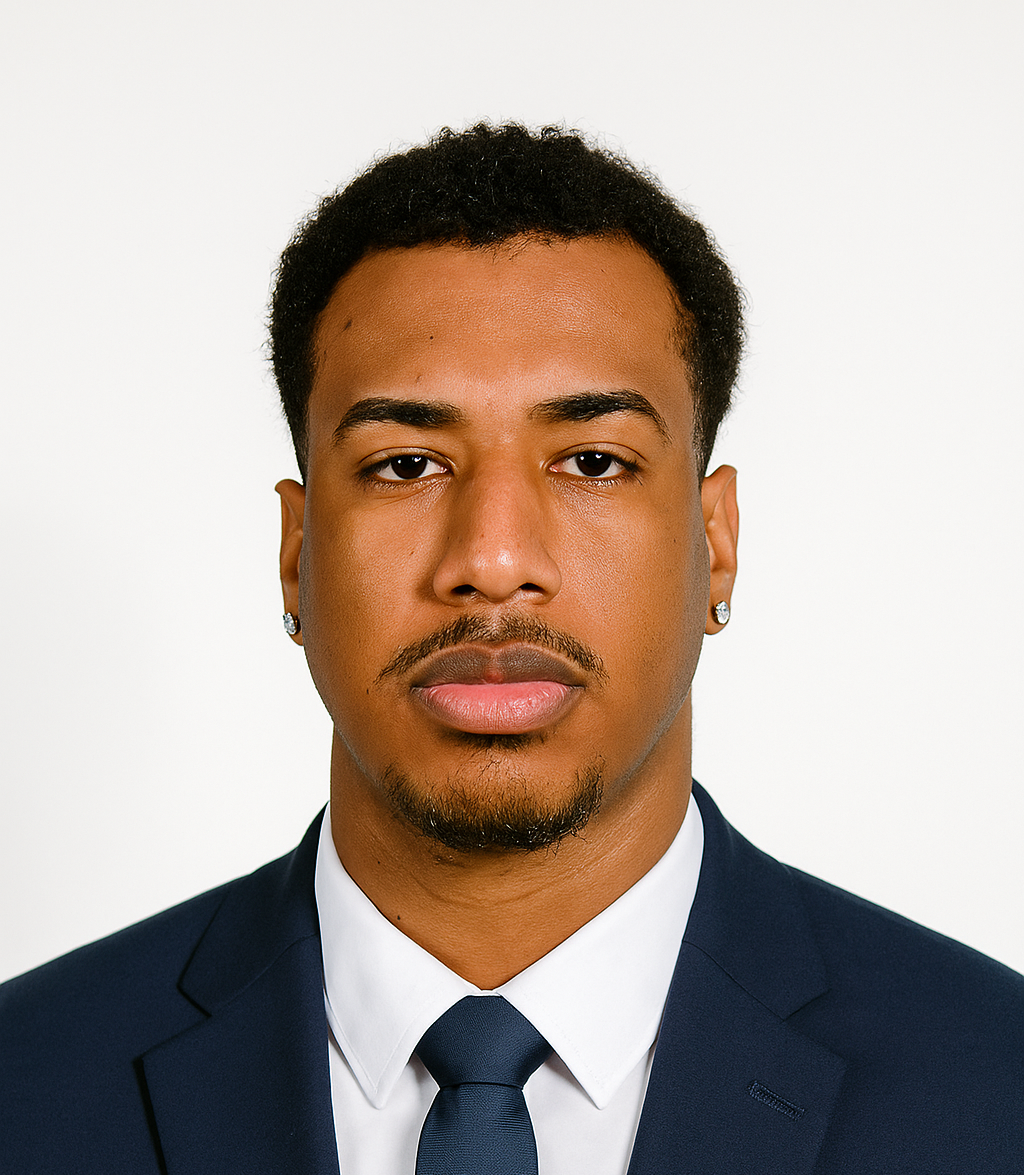
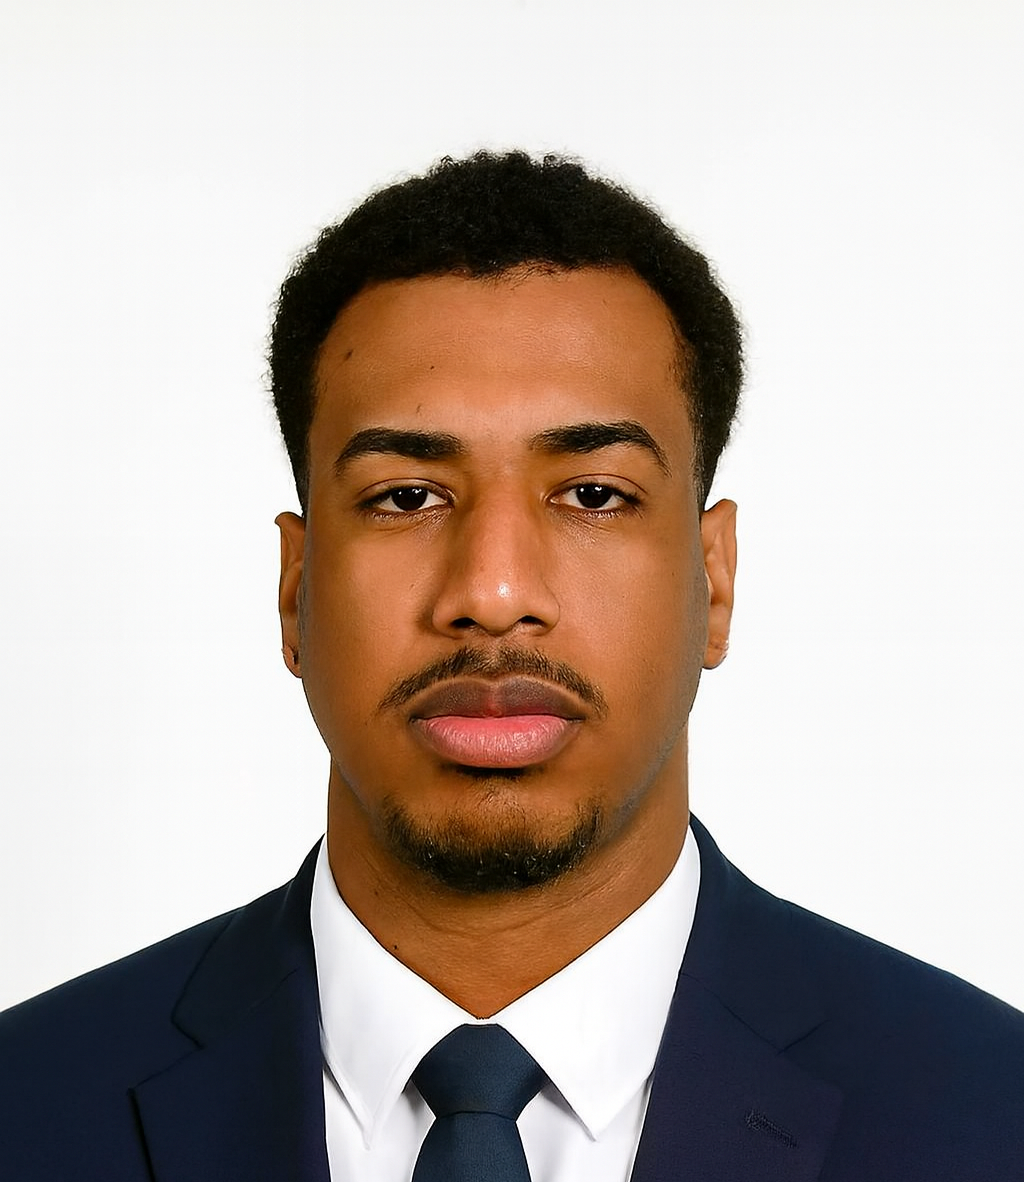
Actualizar proyectos: Pragmatica, CEO, Colaborativos y QA

diff --git a/index.html b/index.html
@@ -216,7 +216,7 @@
                         </div>
                     </div>
                     <div class="about-visual glass">
-                        <img src="img/Fotos/Perfil.PNG" alt="Enghel Mejía Severino"
+                        <img src="img/Fotos/Perfil.png" alt="Enghel Mejía Severino"
                             onerror="this.style.display='none'; this.nextElementSibling.style.display='flex';">
                         <div class="placeholder-img" style="display: none;">Enghel</div>
                     </div>
@@ -255,89 +255,22 @@
                     <!-- Proyecto 2 -->
                     <div class="project-card glass">
                         <div class="project-img" style="background: white;">
-                            <img src="img/Clientes/INTERTEK.png" alt="Logo Intertek"
-                                onerror="this.style.display='none'; this.nextElementSibling.style.display='flex';"
-                                style="width: 100%; height: 100%; object-fit: contain; padding: 20px;">
-                            <div class="placeholder-img" style="display: none; color: #333;">Intertek</div>
-                        </div>
-                        <div class="project-info">
-                            <h3 data-i18n="prj2_title">Intertek TQA</h3>
-                            <p data-i18n="prj2_desc">Servicios de QA y desarrollo de una plataforma web de gestión de
-                                información interna.</p>
-                            <div class="tags">
-                                <span>Laravel</span>
-                                <span>MySQL</span>
-                                <span>Bootstrap</span>
-                                <span>QA</span>
-                            </div>
-                        </div>
-                    </div>
-                    <!-- Proyecto 3 -->
-                    <div class="project-card glass">
-                        <div class="project-img" style="background: white;">
                             <img src="img/Clientes/Ceo.png" alt="Logo CEO Consultoría"
                                 onerror="this.style.display='none'; this.nextElementSibling.style.display='flex';"
                                 style="width: 100%; height: 100%; object-fit: contain; padding: 20px;">
                             <div class="placeholder-img" style="display: none; color: #333;">CEO Consultoría</div>
                         </div>
                         <div class="project-info">
-                            <h3 data-i18n="prj3_title">CEO Consultoría</h3>
-                            <p data-i18n="prj3_desc">Sistema de inventario para dispositivos móviles realizado durante
-                                pasantía en CEO
-                                Consultoría. Permite gestionar productos en tiempo real.</p>
+                            <h3 data-i18n="prj2_title">CEO Consultoría</h3>
+                            <p data-i18n="prj2_desc">Sistema de inventario para dispositivos móviles realizado durante pasantía en CEO Consultoría. Permite gestionar productos en tiempo real.</p>
                             <div class="tags">
                                 <span>HTML/CSS</span>
                                 <span>JavaScript</span>
                                 <span>API REST</span>
                             </div>
-
                         </div>
                     </div>
-                    <!-- Proyecto 4 -->
-                    <div class="project-card glass">
-                        <div class="project-img" style="background: white;">
-                            <img src="img/Clientes/atflamingo.png" alt="A&T Flamingo"
-                                onerror="this.style.display='none'; this.nextElementSibling.style.display='flex';"
-                                style="width: 100%; height: 100%; object-fit: contain; padding: 20px;">
-                            <div class="placeholder-img" style="display: none; color: #333;">A&T Flamingo</div>
-                        </div>
-                        <div class="project-info">
-                            <h3 data-i18n="prj4_title">A&T Flamingo</h3>
-                            <p data-i18n="prj4_desc">Rediseño básico de sitio web de comercio electrónico dedicado a la
-                                venta de productos
-                                desechables.</p>
-                            <div class="tags">
-                                <span>WordPress</span>
-                                <span>WooCommerce</span>
-                            </div>
-                        </div>
-                    </div>
-                    <!-- Proyecto 5 -->
-                    <div class="project-card glass">
-                        <div class="project-img" style="background: white;">
-                            <img src="img/Clientes/Portfolio_v3.png" alt="Mi Portafolio"
-                                onerror="this.style.display='none'; this.nextElementSibling.style.display='flex';"
-                                style="width: 100%; height: 100%; object-fit: contain; padding: 20px;">
-                            <div class="placeholder-img"
-                                style="display: none; color: #333; font-weight: bold; background: transparent;">Mi
-                                Portafolio</div>
-                        </div>
-                        <div class="project-info">
-                            <h3 data-i18n="prj5_title">Diseño de Portafolios</h3>
-                            <p data-i18n="prj5_desc">Desarrollo y creación de portafolios personales y profesionales
-                                utilizando técnicas
-                                modernas de diseño
-                                como
-                                Glassmorphism y animaciones dinámicas.</p>
-                            <div class="tags">
-                                <span>HTML5</span>
-                                <span>CSS3</span>
-                                <span>JavaScript</span>
-                                <span>UX/UI</span>
-                            </div>
-                        </div>
-                    </div>
-                    <!-- Proyecto 6 -->
+                    <!-- Proyecto 3 -->
                     <div class="project-card glass">
                         <div class="project-img" style="background: white;">
                             <img src="img/Clientes/collaborative_projects_white.png" alt="Proyectos Colaborativos"
@@ -346,15 +279,31 @@
                             <div class="placeholder-img" style="display: none; color: #333;">Colaboración</div>
                         </div>
                         <div class="project-info">
-                            <h3 data-i18n="prj6_title">Proyectos Colaborativos</h3>
-                            <p data-i18n="prj6_desc">Participación proactiva en el desarrollo de ideas y optimización de
-                                código en equipos
-                                multidisciplinarios, buscando siempre la excelencia técnica y funcional.</p>
+                            <h3 data-i18n="prj3_title">Proyectos Colaborativos</h3>
+                            <p data-i18n="prj3_desc">Participación proactiva en el desarrollo de ideas y optimización de código en equipos multidisciplinarios, buscando siempre la excelencia técnica y funcional.</p>
                             <div class="tags">
                                 <span>Teamwork</span>
                                 <span>Code Review</span>
                                 <span>Ideas & Feedback</span>
-                                <span>Mentoring</span>
+                            </div>
+                        </div>
+                    </div>
+                    <!-- Proyecto 4 -->
+                    <div class="project-card glass">
+                        <div class="project-img" style="background: white;">
+                            <img src="img/Clientes/qa_testing_white.png" alt="Aseguramiento de Calidad (QA)"
+                                onerror="this.style.display='none'; this.nextElementSibling.style.display='flex';"
+                                style="width: 100%; height: 100%; object-fit: contain; padding: 20px;">
+                            <div class="placeholder-img"
+                                style="display: none; color: #333; font-weight: bold; background: transparent;">QA Testing</div>
+                        </div>
+                        <div class="project-info">
+                            <h3 data-i18n="prj4_title">Aseguramiento de Calidad (QA)</h3>
+                            <p data-i18n="prj4_desc">Validación y verificación exhaustiva de requerimientos de software para garantizar los estándares de calidad y certificar la correcta implementación de las funcionalidades desarrolladas.</p>
+                            <div class="tags">
+                                <span>Quality Assurance</span>
+                                <span>Manual Testing</span>
+                                <span>Requerimientos</span>
                             </div>
                         </div>
                     </div>

diff --git a/translations.js b/translations.js
@@ -30,25 +30,20 @@ const translations = {
         // Services Page
         services_title: "Mis <span>Servicios</span>",
         srv_web_title: "Desarrollo Freelance",
-        srv_web_desc: "Creación de aplicaciones web Full-stack a medida utilizando tecnologías modernas como HTML, CSS, JavaScript, Laravel y Blazor. Enfoque en rendimiento y experiencia de usuario.",
+        srv_web_desc: "Desarrollo de todo tipo de sistemas web a medida, desde plataformas de gestión de información hasta páginas informativas, utilizando HTML, CSS, JavaScript, Laravel y Blazor. Enfoque en escalabilidad y UX.",
         srv_qa_title: "Optimización y QA",
         srv_qa_desc: "Auditoría exhaustiva de software existente para identificar errores, cuellos de botella y vulnerabilidades. Aseguro la calidad final de tu producto.",
-        srv_maint_title: "Mantenimiento y Soporte",
-        srv_maint_desc: "Soporte técnico continuo, actualización de dependencias y mejoras incrementales para que tu negocio nunca se detenga.",
+        srv_maint_title: "Mejoras de Proyectos",
+        srv_maint_desc: "Realizo mejoras continuas y actualizaciones para proyectos ya realizados, asegurando que sigan creciendo y adaptándose a nuevas necesidades.",
         btn_index: "Volver al Inicio",
-        // Individual Projects
         prj1_title: "Pragmatica SRL",
         prj1_desc: "Diseño y desarrollo de la página web corporativa oficial, enfocada en soluciones empresariales y consultoría.",
-        prj2_title: "Intertek TQA",
-        prj2_desc: "Servicios de QA y desarrollo de una plataforma web de gestión de información interna.",
-        prj3_title: "CEO Consultoría",
-        prj3_desc: "Sistema de inventario para dispositivos móviles realizado durante pasantía en CEO Consultoría. Permite gestionar productos en tiempo real.",
-        prj4_title: "A&T Flamingo",
-        prj4_desc: "Rediseño básico de sitio web de comercio electrónico dedicado a la venta de productos desechables.",
-        prj5_title: "Diseño de Portafolios",
-        prj5_desc: "Desarrollo y creación de portafolios personales y profesionales utilizando técnicas modernas de diseño como Glassmorphism y animaciones dinámicas.",
-        prj6_title: "Proyectos Colaborativos",
-        prj6_desc: "Participación proactiva en el desarrollo de ideas y optimización de código en equipos multidisciplinarios, buscando siempre la excelencia técnica y funcional."
+        prj2_title: "CEO Consultoría",
+        prj2_desc: "Sistema de inventario para dispositivos móviles realizado durante pasantía en CEO Consultoría. Permite gestionar productos en tiempo real.",
+        prj3_title: "Proyectos Colaborativos",
+        prj3_desc: "Participación proactiva en el desarrollo de ideas y optimización de código en equipos multidisciplinarios, buscando siempre la excelencia técnica y funcional.",
+        prj4_title: "Aseguramiento de Calidad (QA)",
+        prj4_desc: "Validación y verificación exhaustiva de requerimientos de software para garantizar los estándares de calidad y certificar la correcta implementación de las funcionalidades desarrolladas."
     },
     en: {
         nav_home: "Home",
@@ -81,24 +76,20 @@ const translations = {
         // Services Page
         services_title: "My <span>Services</span>",
         srv_web_title: "Freelance Development",
-        srv_web_desc: "Creation of custom Full-stack web applications using modern technologies like HTML, CSS, JavaScript, Laravel, and Blazor. Focused on performance and user experience.",
+        srv_web_desc: "Development of all types of custom web systems, from information management platforms to informative pages, using HTML, CSS, JavaScript, Laravel, and Blazor. Focused on scalability and UX.",
         srv_qa_title: "Optimization & QA",
         srv_qa_desc: "Comprehensive auditing of existing software to identify bugs, bottlenecks, and vulnerabilities. I ensure the final quality of your product.",
-        srv_maint_title: "Maintenance & Support",
-        srv_maint_desc: "Continuous technical support, dependency updates, and incremental improvements to keep your business running smoothly.",
+        srv_maint_title: "Project Improvements",
+        srv_maint_desc: "I perform continuous improvements and updates for existing projects, ensuring they keep growing and adapting to new needs.",
         btn_index: "Back to Home",
         // Individual Projects
         prj1_title: "Pragmatica SRL",
         prj1_desc: "Design and development of the official corporate website, focused on business solutions and consulting.",
-        prj2_title: "Intertek TQA",
-        prj2_desc: "QA services and development of an internal information management web platform.",
-        prj3_title: "CEO Consulting",
-        prj3_desc: "Inventory system for mobile devices developed during an internship at CEO Consulting. Allows real-time product management.",
-        prj4_title: "A&T Flamingo",
-        prj4_desc: "Basic redesign of an e-commerce website dedicated to the sale of disposable products.",
-        prj5_title: "Portfolio Design",
-        prj5_desc: "Development and creation of personal and professional portfolios using modern design techniques such as Glassmorphism and dynamic animations.",
-        prj6_title: "Collaborative Projects",
-        prj6_desc: "Proactive participation in the development of ideas and code optimization in multidisciplinary teams, always seeking technical and functional excellence."
+        prj2_title: "CEO Consulting",
+        prj2_desc: "Inventory system for mobile devices developed during an internship at CEO Consulting. Allows real-time product management.",
+        prj3_title: "Collaborative Projects",
+        prj3_desc: "Proactive participation in the development of ideas and code optimization in multidisciplinary teams, always seeking technical and functional excellence.",
+        prj4_title: "Quality Assurance (QA)",
+        prj4_desc: "Comprehensive validation and verification of software requirements to guarantee quality standards and certify the correct implementation of developed functionalities."
     }
 };

diff --git a/servicios.html b/servicios.html
@@ -94,7 +94,7 @@
                         <div class="service-img" style="display: flex; align-items: center; justify-content: center;">
                             <svg xmlns="http://www.w3.org/2000/svg" width="100" height="100" viewBox="0 0 24 24"
                                 fill="none" stroke="currentColor" stroke-width="1.5" stroke-linecap="round"
-                                stroke-linejoin="round" style="color: #ffffff;">
+                                stroke-linejoin="round">
                                 <rect x="2" y="3" width="20" height="14" rx="2" ry="2"></rect>
                                 <line x1="8" y1="21" x2="16" y2="21"></line>
                                 <line x1="12" y1="17" x2="12" y2="21"></line>
@@ -104,10 +104,9 @@
                             </svg>
                         </div>
                         <h3 data-i18n="srv_web_title">Desarrollo Freelance</h3>
-                        <p data-i18n="srv_web_desc">Creación de aplicaciones web Full-stack a medida utilizando
-                            tecnologías
-                            modernas como HTML, CSS, JavaScript, Laravel y Blazor. Enfoque en rendimiento y experiencia
-                            de usuario.</p>
+                        <p data-i18n="srv_web_desc">Desarrollo de todo tipo de sistemas web a medida, desde plataformas
+                            de gestión de información hasta páginas informativas, utilizando HTML, CSS, JavaScript,
+                            Laravel y Blazor. Enfoque en escalabilidad y UX.</p>
                     </div>
 
                     <!-- Servicio 2 -->
@@ -115,7 +114,7 @@
                         <div class="service-img" style="display: flex; align-items: center; justify-content: center;">
                             <svg xmlns="http://www.w3.org/2000/svg" width="100" height="100" viewBox="0 0 24 24"
                                 fill="none" stroke="currentColor" stroke-width="1.5" stroke-linecap="round"
-                                stroke-linejoin="round" style="color: #ffffff;">
+                                stroke-linejoin="round">
                                 <circle cx="11" cy="11" r="8"></circle>
                                 <line x1="21" y1="21" x2="16.65" y2="16.65"></line>
                                 <path d="M11 8v6"></path>
@@ -132,15 +131,15 @@
                         <div class="service-img" style="display: flex; align-items: center; justify-content: center;">
                             <svg xmlns="http://www.w3.org/2000/svg" width="100" height="100" viewBox="0 0 24 24"
                                 fill="none" stroke="currentColor" stroke-width="1.5" stroke-linecap="round"
-                                stroke-linejoin="round" style="color: #ffffff;">
+                                stroke-linejoin="round">
                                 <path
                                     d="M14.7 6.3a1 1 0 0 0 0 1.4l1.6 1.6a1 1 0 0 0 1.4 0l3.77-3.77a6 6 0 0 1-7.94 7.94l-6.91 6.91a2.12 2.12 0 0 1-3-3l6.91-6.91a6 6 0 0 1 7.94-7.94l-3.76 3.76z">
                                 </path>
                             </svg>
                         </div>
-                        <h3 data-i18n="srv_maint_title">Mantenimiento y Soporte</h3>
-                        <p data-i18n="srv_maint_desc">Soporte técnico continuo, actualización de dependencias y mejoras
-                            incrementales para que tu negocio nunca se detenga.</p>
+                        <h3 data-i18n="srv_maint_title">Mejoras de Proyectos</h3>
+                        <p data-i18n="srv_maint_desc">Realizo mejoras continuas y actualizaciones para proyectos ya
+                            realizados, asegurando que sigan creciendo y adaptándose a nuevas necesidades.</p>
                     </div>
                 </div>
 

diff --git a/style.css b/style.css
@@ -817,6 +817,12 @@ footer {
     border: 1px solid var(--glass-border);
 }
 
+.service-img svg {
+    color: var(--text-main);
+    transition: var(--transition);
+}
+
+
 .service-img img {
     width: 100%;
     height: 100%;